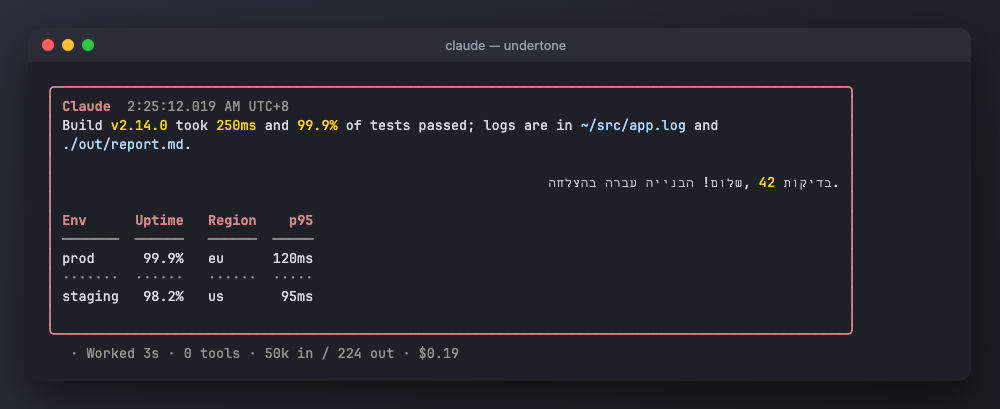
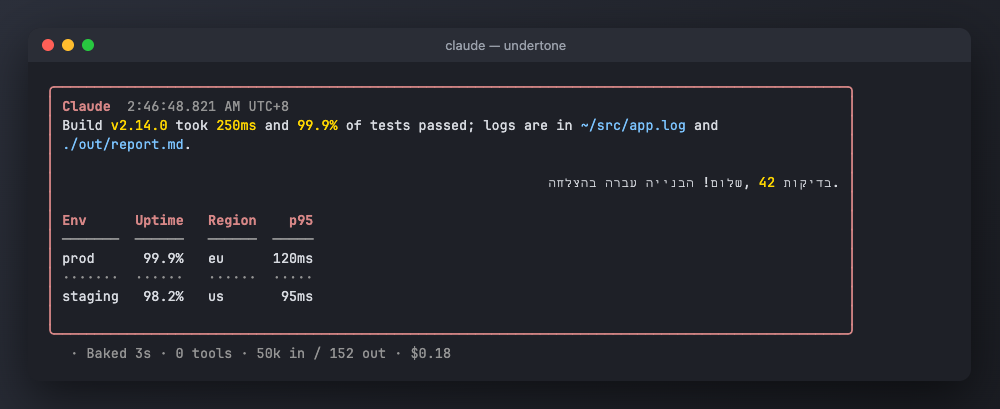
undertone 0.20.0
Docs: screenshots for git graphs, mindmaps and journeys; the coloured-text
shot with paths as links; the diff card with its ✓.

diff --git a/README.md b/README.md
@@ -107,7 +107,7 @@ Claude's replies draw block by block, in the theme's colours:
 - **Quotes** get an accent bar; **GitHub alerts** (`> [!NOTE]`, `[!TIP]`, `[!IMPORTANT]`, `[!WARNING]`, `[!CAUTION]`) draw as coloured boxes with their label.
 - **Code** sits under a header with its language and `[ copy code ]`, highlighted, with no frame, so a mouse selection copies just the code.
 - **Rules** draw across the bubble; lists and quotes get `[ copy list ]` and `[ copy quote ]`.
-- **Numbers and paths stand out** in plain paragraphs and list items: numbers, versions (`v2.14.0`), durations (`250ms`) and percentages in amber, paths (`~/src/app.ts`, `./out/report.md`) in their own colour, `~~struck~~` struck through. A paragraph with a link stays Claude Code's own, so the link stays clickable. *Colour numbers and paths* off turns this off.
+- **Numbers and paths stand out** in plain paragraphs and list items: numbers, versions (`v2.14.0`), durations (`250ms`) and percentages in amber, paths (`~/src/app.ts`, `./out/report.md`) in the link colour, `~~struck~~` struck through. **Click a path** (`~/` is your home, `./` the project folder) and it opens in the file viewer, read-only, so a click never runs anything. A paragraph with a web link stays Claude Code's own, so that link stays clickable too. *Colour numbers and paths* and *Click paths in replies* turn these off.
 - **Right to left**: a paragraph or list item in Hebrew, Arabic or another right-to-left script is right-aligned, with its bullet on the right.
 - **Side by side**: tables and pictures that follow each other share a row when they fit, and stack when they don't.
 
@@ -135,6 +135,10 @@ When a picture explains better than prose, Claude can draw one, and undertone dr
     <td><img src="docs/class.png" alt="A class diagram: Animal, Duck and Fish as boxes with their members, and Duck and Fish inherit Animal"></td>
   </tr>
   <tr>
+    <td><img src="docs/git.png" alt="A git graph: main and feature lanes, the branch starting, two commits on feature, a hotfix on main, and the merge tagged v0.18"></td>
+    <td><img src="docs/mindmap-journey.png" alt="A mindmap of undertone beside a user journey with a 5/5 and a 2/5 score bar"></td>
+  </tr>
+  <tr>
     <td colspan="2"><img src="docs/gantt.png" alt="A gantt chart: tasks as bars on a date axis, done in green, active in amber, a milestone diamond at the end"></td>
   </tr>
 </table>
@@ -142,10 +146,11 @@ When a picture explains better than prose, Claude can draw one, and undertone dr
 - **Charts** from ` ```mermaid ` blocks: `xychart-beta` bar and line series as bars measured to an eighth of a cell, the tallest one highlighted, and `pie` charts as share bars, largest first.
 - **Flowcharts** (`graph LR` / `TD`): a straight chain as boxes joined by arrows, with edge labels; branches and loops as a tree, `↺` where it loops back.
 - **State diagrams** draw like flowcharts, `●` where they start and `◉` where they end; **class and ER diagrams** as a box per class or entity with its members, and the relations under them in words (`Duck ──▷ Animal  inherits`, `CUSTOMER ──▶ ORDER  places (one to many)`).
+- **Mindmaps** as a tree from the root, each branch in its own colour; **user journeys** as a score bar per task, red to green, with who took part; **git graphs** as lanes, `├─╮` where a branch starts and `●─╯` where it merges, with commit ids and tags.
 - **Gantt charts**: a bar per task on a shared date axis, with sections; done tasks green, active amber, critical red, milestones `◆` (`YYYY-MM-DD` dates; durations in `d`, `h`, `w`, or `after <task>`).
 - **Sequence diagrams**: a box per participant over its lifeline, each message an arrow with its text above, replies dashed, notes and `loop`/`alt` labels as dim lines.
 - **Figures**: a ` ```figure ` block draws exactly as written, with `{accent:…}`, `{warn:…}`, `{ok:…}`, `{note:…}`, `{dim:…}` and `{strong:…}` colouring a run. A line that would not draw as written (too wide, a tab, broken markup) leaves it as code, with a note saying why.
-- `[ source ]`, `[ art ]` and `[ png ]` on each. Other mermaid kinds (mindmaps, journeys, git graphs), and a block still streaming, stay code.
+- `[ source ]`, `[ art ]` and `[ png ]` on each. Other mermaid kinds (quadrant charts, timelines, Sankey, C4), and a block still streaming, stay code.
 - So Claude knows, each prompt you type carries a short note only the model reads (about 130 tokens); *Tell Claude about pictures* turns it off.
 
 ### Math, footnotes and copying
@@ -261,6 +266,7 @@ Everything is in `/config → undertone`. The ones you'll reach for first:
 | Run-in-background hint | `compact` | `hidden`, `engine` |
 | Rich text | on | off = Claude Code's own Markdown |
 | Colour numbers and paths | on | |
+| Click paths in replies | on | opens them in the file viewer |
 | Heading style | `banner` | `bold`, `underline` |
 | Task list style | `brackets` | `ticks`, `box`, `progress` |
 | Tell Claude about pictures | on | the note on your prompts |
@@ -291,7 +297,7 @@ Don't also install the published copy on the same machine, or both will draw eve
 
 ```bash
 claude plugin validate .   # what the engine will load, and what it would refuse
-claude plugin test .       # 278 tests: every feature, every theme in every style, tables at 4 widths
+claude plugin test .       # 284 tests: every feature, every theme in every style, tables at 4 widths
 ```
 
 CI runs `validate` and `test` on every push and pull request, and weekly against the latest Claude Code. The type check needs the engine types Claude Code
